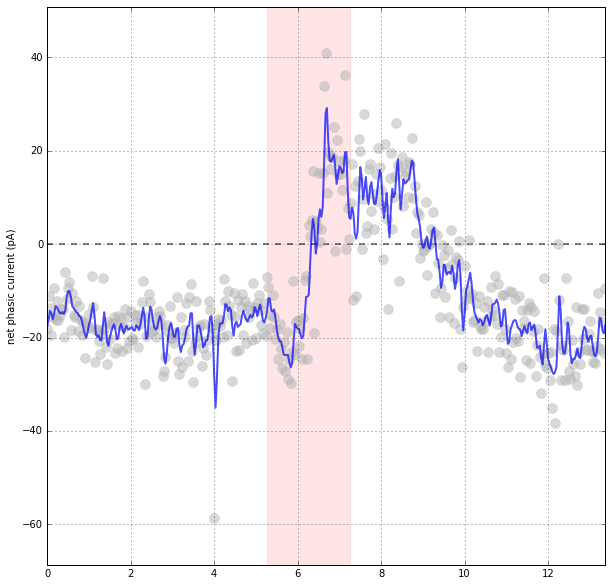
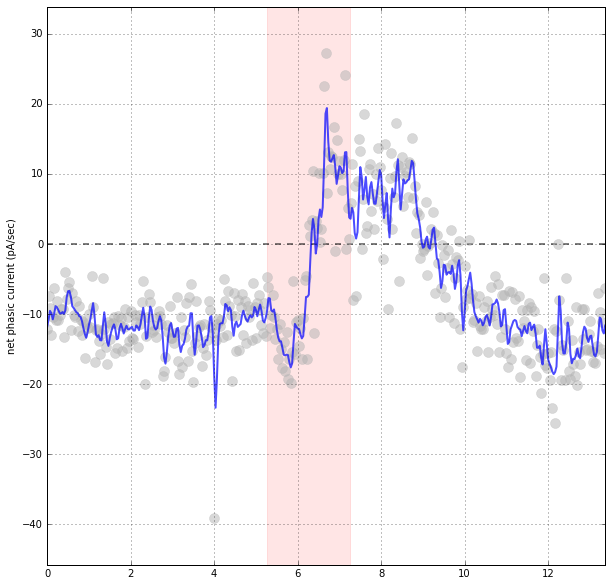
15

diff --git a/doc/uses/EPSCs-and-IPSCs/15.py b/doc/uses/EPSCs-and-IPSCs/15.py
@@ -1,0 +1,75 @@
+"""
+MOST OF THIS CODE IS NOT USED
+ITS COPY/PASTED AND LEFT HERE FOR CONVENIENCE
+"""
+
+import os
+import sys
+
+# in case our module isn't installed (running from this folder)
+if not os.path.abspath('../../../') in sys.path:
+    sys.path.append('../../../') # helps spyder get docs
+
+import swhlab
+import swhlab.common as cm
+import matplotlib.pyplot as plt
+import numpy as np
+
+import warnings # suppress VisibleDeprecationWarning warning
+warnings.filterwarnings("ignore", category=np.VisibleDeprecationWarning)
+
+def analyzeSweep(abf,label=None,plot=True,biggestEvent=30):
+    # acquire the baseline-subtracted sweep
+    Y=abf.sweepYsmartbase()[abf.pointsPerSec*.5:]
+
+    # create the histogram
+    nBins=1000
+    hist,bins=np.histogram(Y,bins=nBins,range=[-biggestEvent,biggestEvent],density=True)
+    histSmooth=cm.lowpass(hist,nBins/5)
+
+    # normalize height to 1
+    hist,histSmooth=hist/max(histSmooth),histSmooth/max(histSmooth)
+
+    # center the peak at 0 pA
+    peakI=np.where(histSmooth==max(histSmooth))[0][0]
+    hist=np.roll(hist,int(nBins/2-peakI))
+    histSmooth=np.roll(histSmooth,int(nBins/2-peakI))
+
+    downward,upward=np.split(histSmooth,2)
+    downward=downward[::-1]
+    diff=np.sum(upward-downward) #TODO: should it be normalized first or not?
+
+    # convert our "pA/time" to "pA/sec"
+    diff=diff/(len(Y)/abf.pointsPerSec)
+
+    return diff
+
+if __name__=="__main__":
+    #abfFile=R"C:\Users\scott\Documents\important\demodata\abfs\16d07022.abf"
+    abfFile=R"X:\Data\2P01\2016\2016-09-01 PIR TGOT\16d07022.abf"
+    abf=swhlab.ABF(abfFile)
+    abf.kernel=abf.kernel_gaussian(sizeMS=500) # kernel for smart baseline
+
+    if os.path.exists("diffs.npy") and False:
+        diff=np.load("diffs.npy")
+    else:
+        diff=[]
+        for sweep in abf.setsweeps():
+            print("Sweep",sweep)
+            diff.append(analyzeSweep(abf,plot=True,label="sweep %d"%sweep))
+        np.save("diffs",diff)
+
+    Xs=np.arange(abf.sweeps)*abf.sweepLength/60.0
+    plt.figure(figsize=(10,10))
+    plt.grid()
+    plt.axhline(0,color='k',ls='--',lw=2,alpha=.5)
+    plt.axvspan(5.26,7.25,color='r',alpha=.1)
+    #plt.axvline(7.26,color='r',ls='--',lw=4,alpha=.5)
+    plt.plot(Xs,diff,'.',color='.7',alpha=.5,ms=20)
+    plt.plot(Xs,cm.lowpass(diff,10),color='b',lw=2,alpha=.7)
+    plt.ylabel("net phasic current (pA/sec)")
+    plt.margins(0,.1)
+    plt.show()
+
+
+    print("DONE")
